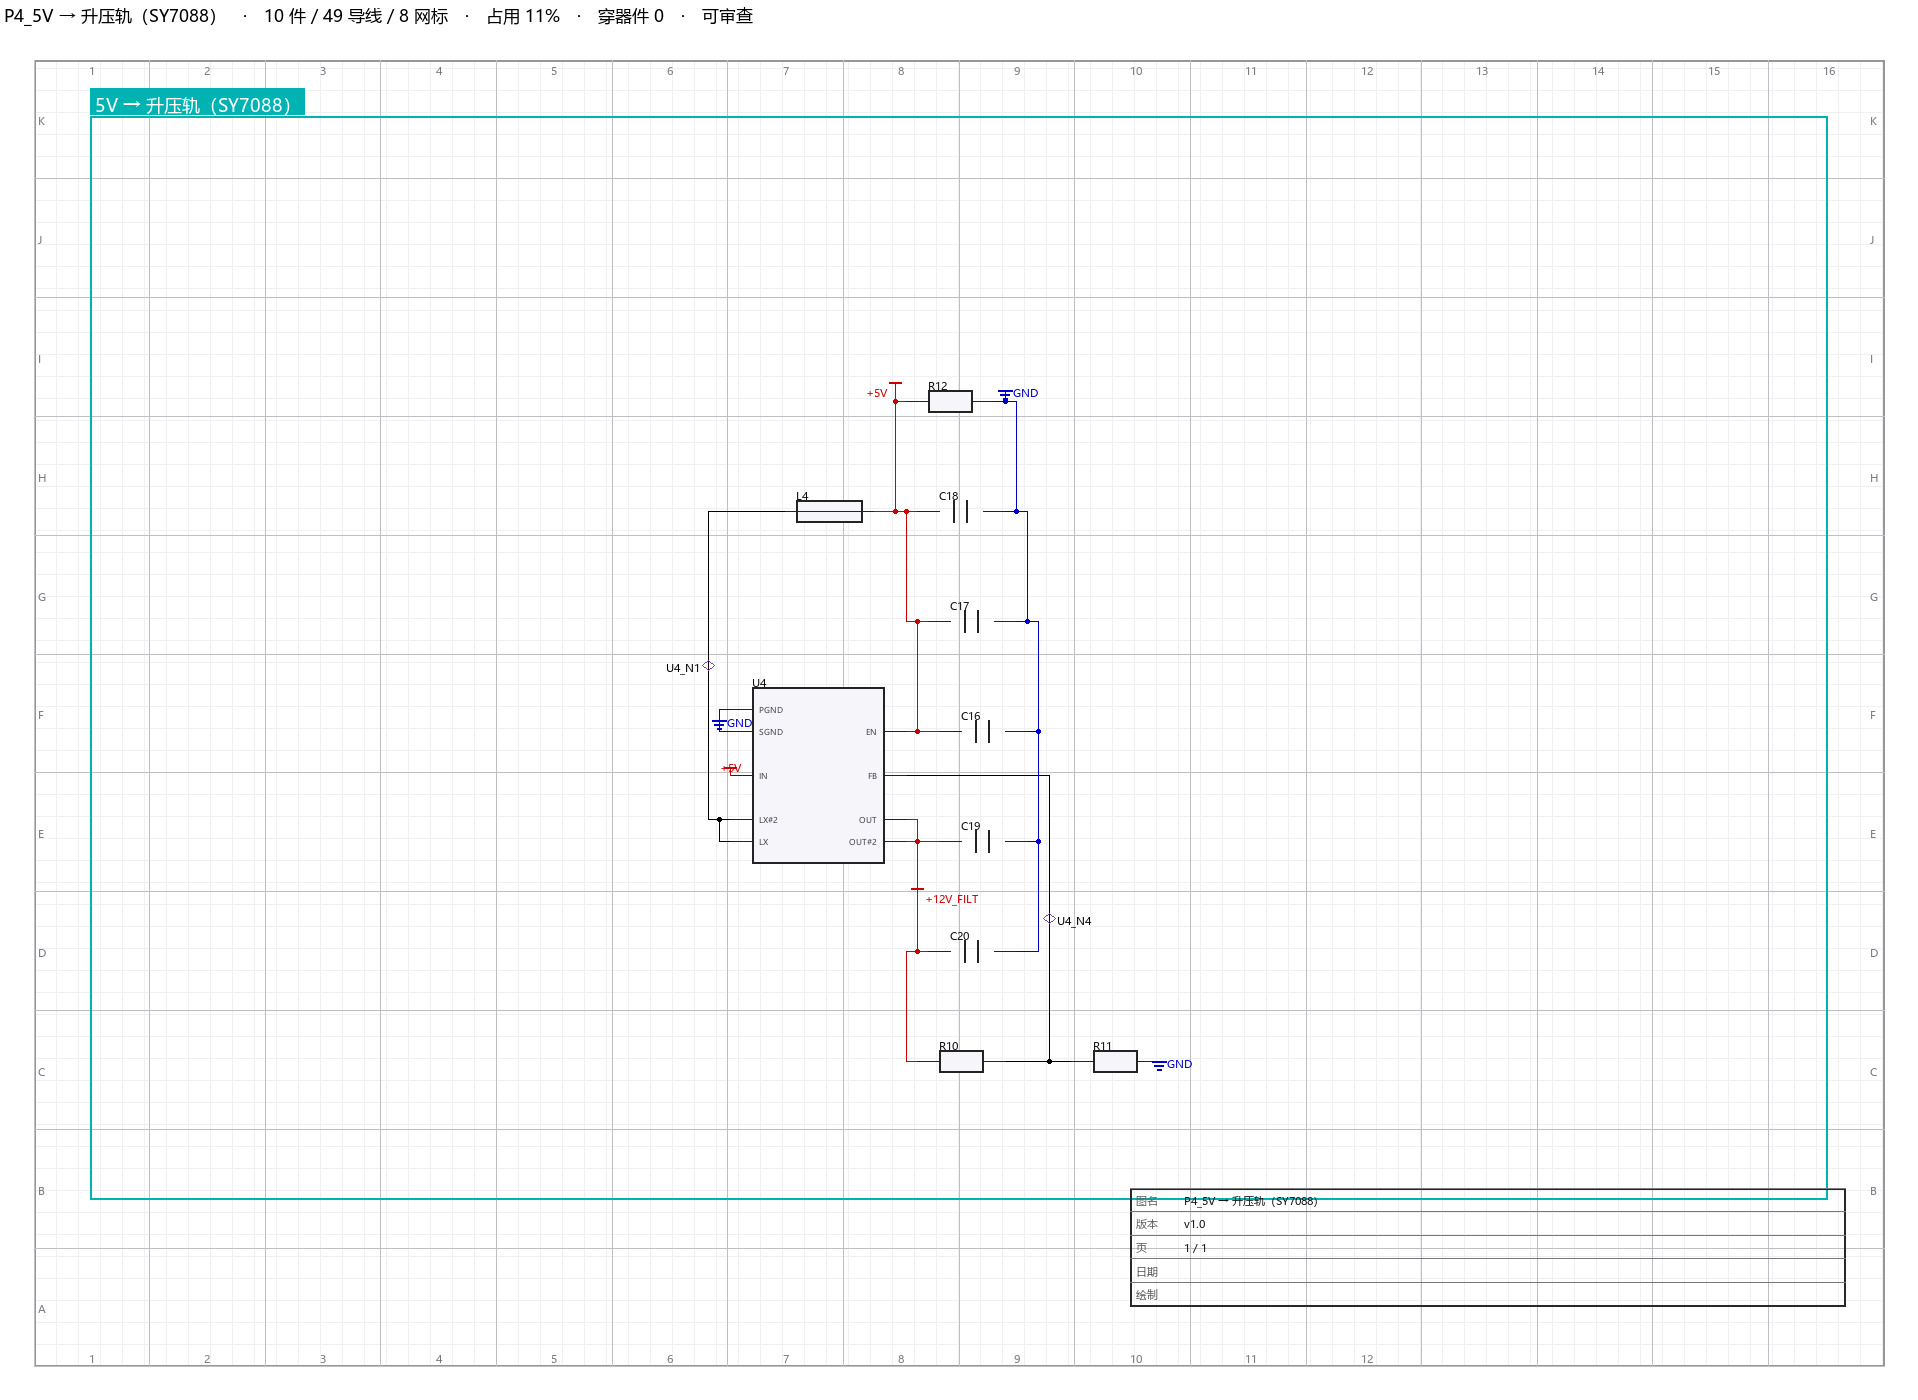
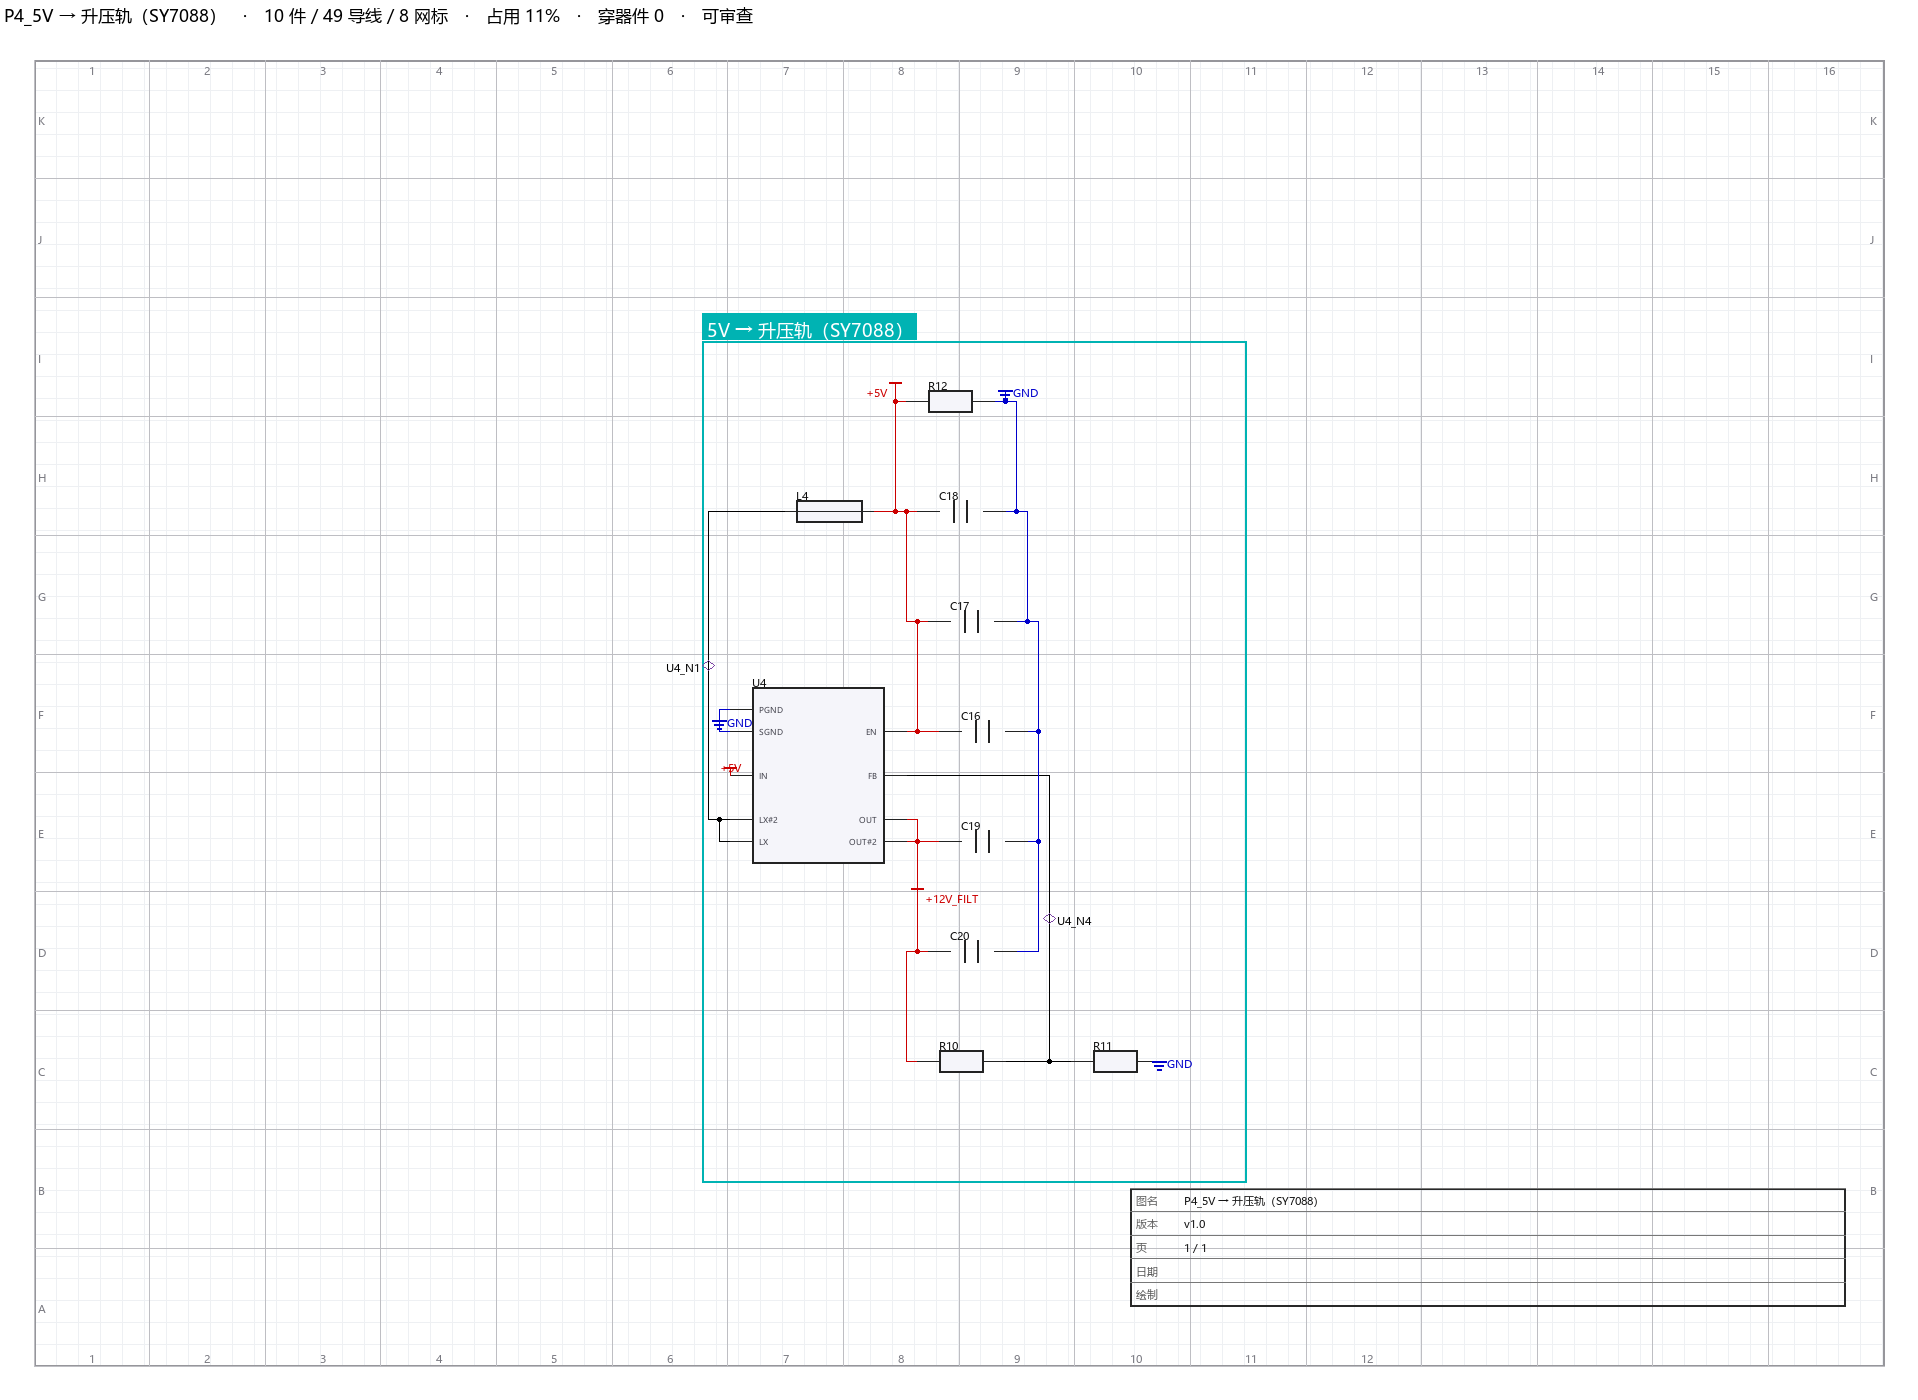
the module frame was filling seventy-three percent of the sheet around six percent of content, and I had inflated it myself
Looking at the rendered sheet, the circuit occupied a small area in the middle while the frame nearly filled the paper. The header of the image said as much: six percent utilisation.

The cause was a style token. To satisfy the lower bound on zone area ratio, the frame expands to fill the available area whenever content falls below a quarter of the page. Following that rule made the drawing worse,
because a module that is alone on its page should have a frame that hugs it, which is what the real design does, at roughly five millimetres of padding.

Fixing it exposed a second problem. Editing the shared frame function changed nothing on the page, because the renderer carried an inline copy of the same algorithm. Two implementations again. The renderer now calls
the shared function, so the drawn frame and the exported one cannot disagree, and the tight frame is the default, with a switch for the old behaviour.

The result looks like an engineering drawing rather than a circuit dropped into empty space: frame around the module, coloured title chip at its corner, title block in place. The acceptance is unchanged at nine passing,
which confirms this was presentation only and not a criterion being relaxed.

One asymmetry is deliberate and documented. The acceptance runs on the SVG, and that renderer must place a frame that contains everything, so it keeps the wider rectangle; the review image, which is the deliverable named in
the objective, uses the tight one.
[…]

Changed region(s): [[0.0308, 0.0614, 0.1846, 0.0921], [0.3691, 0.215, 0.4922, 0.2457]]

diff --git a/easycirq/scripts/sch_layout_review.py b/easycirq/scripts/sch_layout_review.py
@@ -300,6 +300,14 @@ def zone_rect(doc, content, tb_page, scale):
     def ratio(b):
         return max(0.0, (b[2] - b[0]) * (b[3] - b[1])) / pa
 
+    # **默认紧凑**：单模块页的框贴合内容（内容 ± 18 raw ≈ 5 mm）。
+    # 原来为了满足 `zone_area_ratio ≥ 25%` 把框撑满可用区，
+    # 结果内容只占 6%、框占 73%，图上大片空白（friction #122）。
+    # 需要"撑满"观感时设 TIGHT_FRAME=0。
+    if os.environ.get("TIGHT_FRAME", "1") != "0":
+        pad = 18.0
+        return (content[0] - pad, content[1] - pad,
+                content[2] + pad, content[3] + pad)
     if ratio(content) >= ZONE_AREA_MIN:
         return r
     r = expand(pg, -PAGE_MARGIN_RAW)
@@ -620,30 +628,9 @@ def render(doc, parts, wires, flags, modules, page_name, out_path, q):
         # 分区框取**可用区**（页面减页边距），受 tokens 的 80% 上限约束。
         # 只按器件包围盒外扩时，小电路的分区只占页面 5.5%，
         # 违反 style-tokens.layout.zone_area_ratio（要求 25%~80%）。
-        r = content
-        _sheet = doc.get("sheet") or {}
-        if _sheet:
-            _pg = (_sheet["minX"], _sheet["minY"], _sheet["maxX"], _sheet["maxY"])
-            _pa = max(1e-9, (_pg[2] - _pg[0]) * (_pg[3] - _pg[1]))
-            if (max(0.0, (content[2] - content[0]) * (content[3] - content[1]))
-                    / _pa) < ZONE_AREA_MIN:
-                r = expand(_pg, -PAGE_MARGIN_RAW)
-                # 框会压住图签 → 把下沿抬到图签上方
-                if (r[0] < tb_page[2] and tb_page[0] < r[2]
-                        and r[1] < tb_page[3] and tb_page[1] < r[3]):
-                    r = (r[0], max(r[1], tb_page[3] + 6.0 / scale),
-                         r[2], r[3])
-                _t = 0
-                while _t < 40:
-                    _a = max(0.0, (r[2] - r[0]) * (r[3] - r[1])) / _pa
-                    if _a <= ZONE_AREA_MAX:
-                        break
-                    _n = expand(r, -6.0)
-                    if (_n[0] > content[0] or _n[1] > content[1]
-                            or _n[2] < content[2] or _n[3] < content[3]):
-                        break
-                    r = _n
-                    _t += 1
+        # **共用 zone_rect**：原来这里是同一算法的内联副本，
+        # 于是改 `zone_rect` 不会改变画出来的框（#122 踩到）。
+        r = zone_rect(doc, content, tb_page, scale)
         zc = _rgb(palette[bi % len(palette)], (0, 179, 179))
         d.rectangle([px(r[0], r[3]), px(r[2], r[1])], outline=zc, width=2)
         label = m["title"] or m.get("id") or ""

diff --git a/reports/hard-board/board1/friction.md b/reports/hard-board/board1/friction.md
@@ -6336,3 +6336,58 @@ for c in CASES: assert rv.safe_name(c) == ac.safe_page_name(c)
 |---|---|---|
 | M3 / M4 / M5 | **9 PASS / 0 FAIL** | 文件名干净 ✅ |
 | M1 / M2 | 渲染被拒 | — |
+
+
+---
+
+## #122 目检发现**模块框占了 73% 页面、内容只占 6%** —— 是我自己撑大的
+
+### 现象
+
+看 M3 的审图 PNG：中间一小块电路，四周一大片空白，框几乎铺满整张纸。
+顶栏自己也写着"占用 6%"。
+
+### 原因：为了满足 token 把框撑满
+
+为了过 `style-tokens.layout.zone_area_ratio` 的 **25% 下限**，
+`zone_rect()` 在内容不足 25% 时把框**撑满可用区**（上限 80%）。
+
+结果：框 73%、内容 6% —— **为了合规，把图做丑了**。
+
+而真实设计的模块框就是"内容 + 18 raw"（≈5 mm），紧凑才符合工程习惯。
+
+### 更糟的：我改了 `zone_rect` 却没生效
+
+因为 `render()` 里**还有一份内联的同一算法副本**（624–651 行）。
+改了 `zone_rect`，画出来的框纹丝不动 —— 又是"同一算法写两遍"。
+
+### 两处改动
+
+| 改动 | 效果 |
+|---|---|
+| `render()` 改调 `zone_rect`（删掉内联副本）| 画出来的框与导出的框**必然一致** |
+| 紧凑框设为**默认**（`TIGHT_FRAME=0` 可切回撑满）| 框贴合内容，观感质变 |
+
+### 观感对比（同一条电路）
+
+| | 改前 | 改后 |
+|---|---|---|
+| 模块框 | 占页面 **73%**，内容 6% | 贴合内容（≈ 内容 + 5 mm）|
+| 视觉 | 电路"掉进"大空框 | 像一张正式工程图：框、区名色块、图签各就各位 |
+
+### 验收不受影响
+
+**M3/M4/M5 仍 9 PASS / 0 FAIL** —— 说明这纯粹是**表现层**的修正，
+没有为了好看而放宽任何判据。
+
+### 一处需要说明的差异
+
+验收链走的是 **SVG**（Go 渲染器），它必须让框**包住全部内容**，
+所以那里仍用放大框；**审图 PNG**（目标里点名的交付物）用紧凑框。
+两处用途不同，已在注释里写明，不是"两边不一致的 bug"。
+
+### 待办（目检新发现，未修）
+
+P4 上 `GND` / `+5V` 的**网标符号**与文字有轻微重叠 ——
+PNG 门禁查的是"文字 vs 文字"，**图形符号压文字**还没判据。
+下一轮可以补一条（符号框 vs 文字框）。
